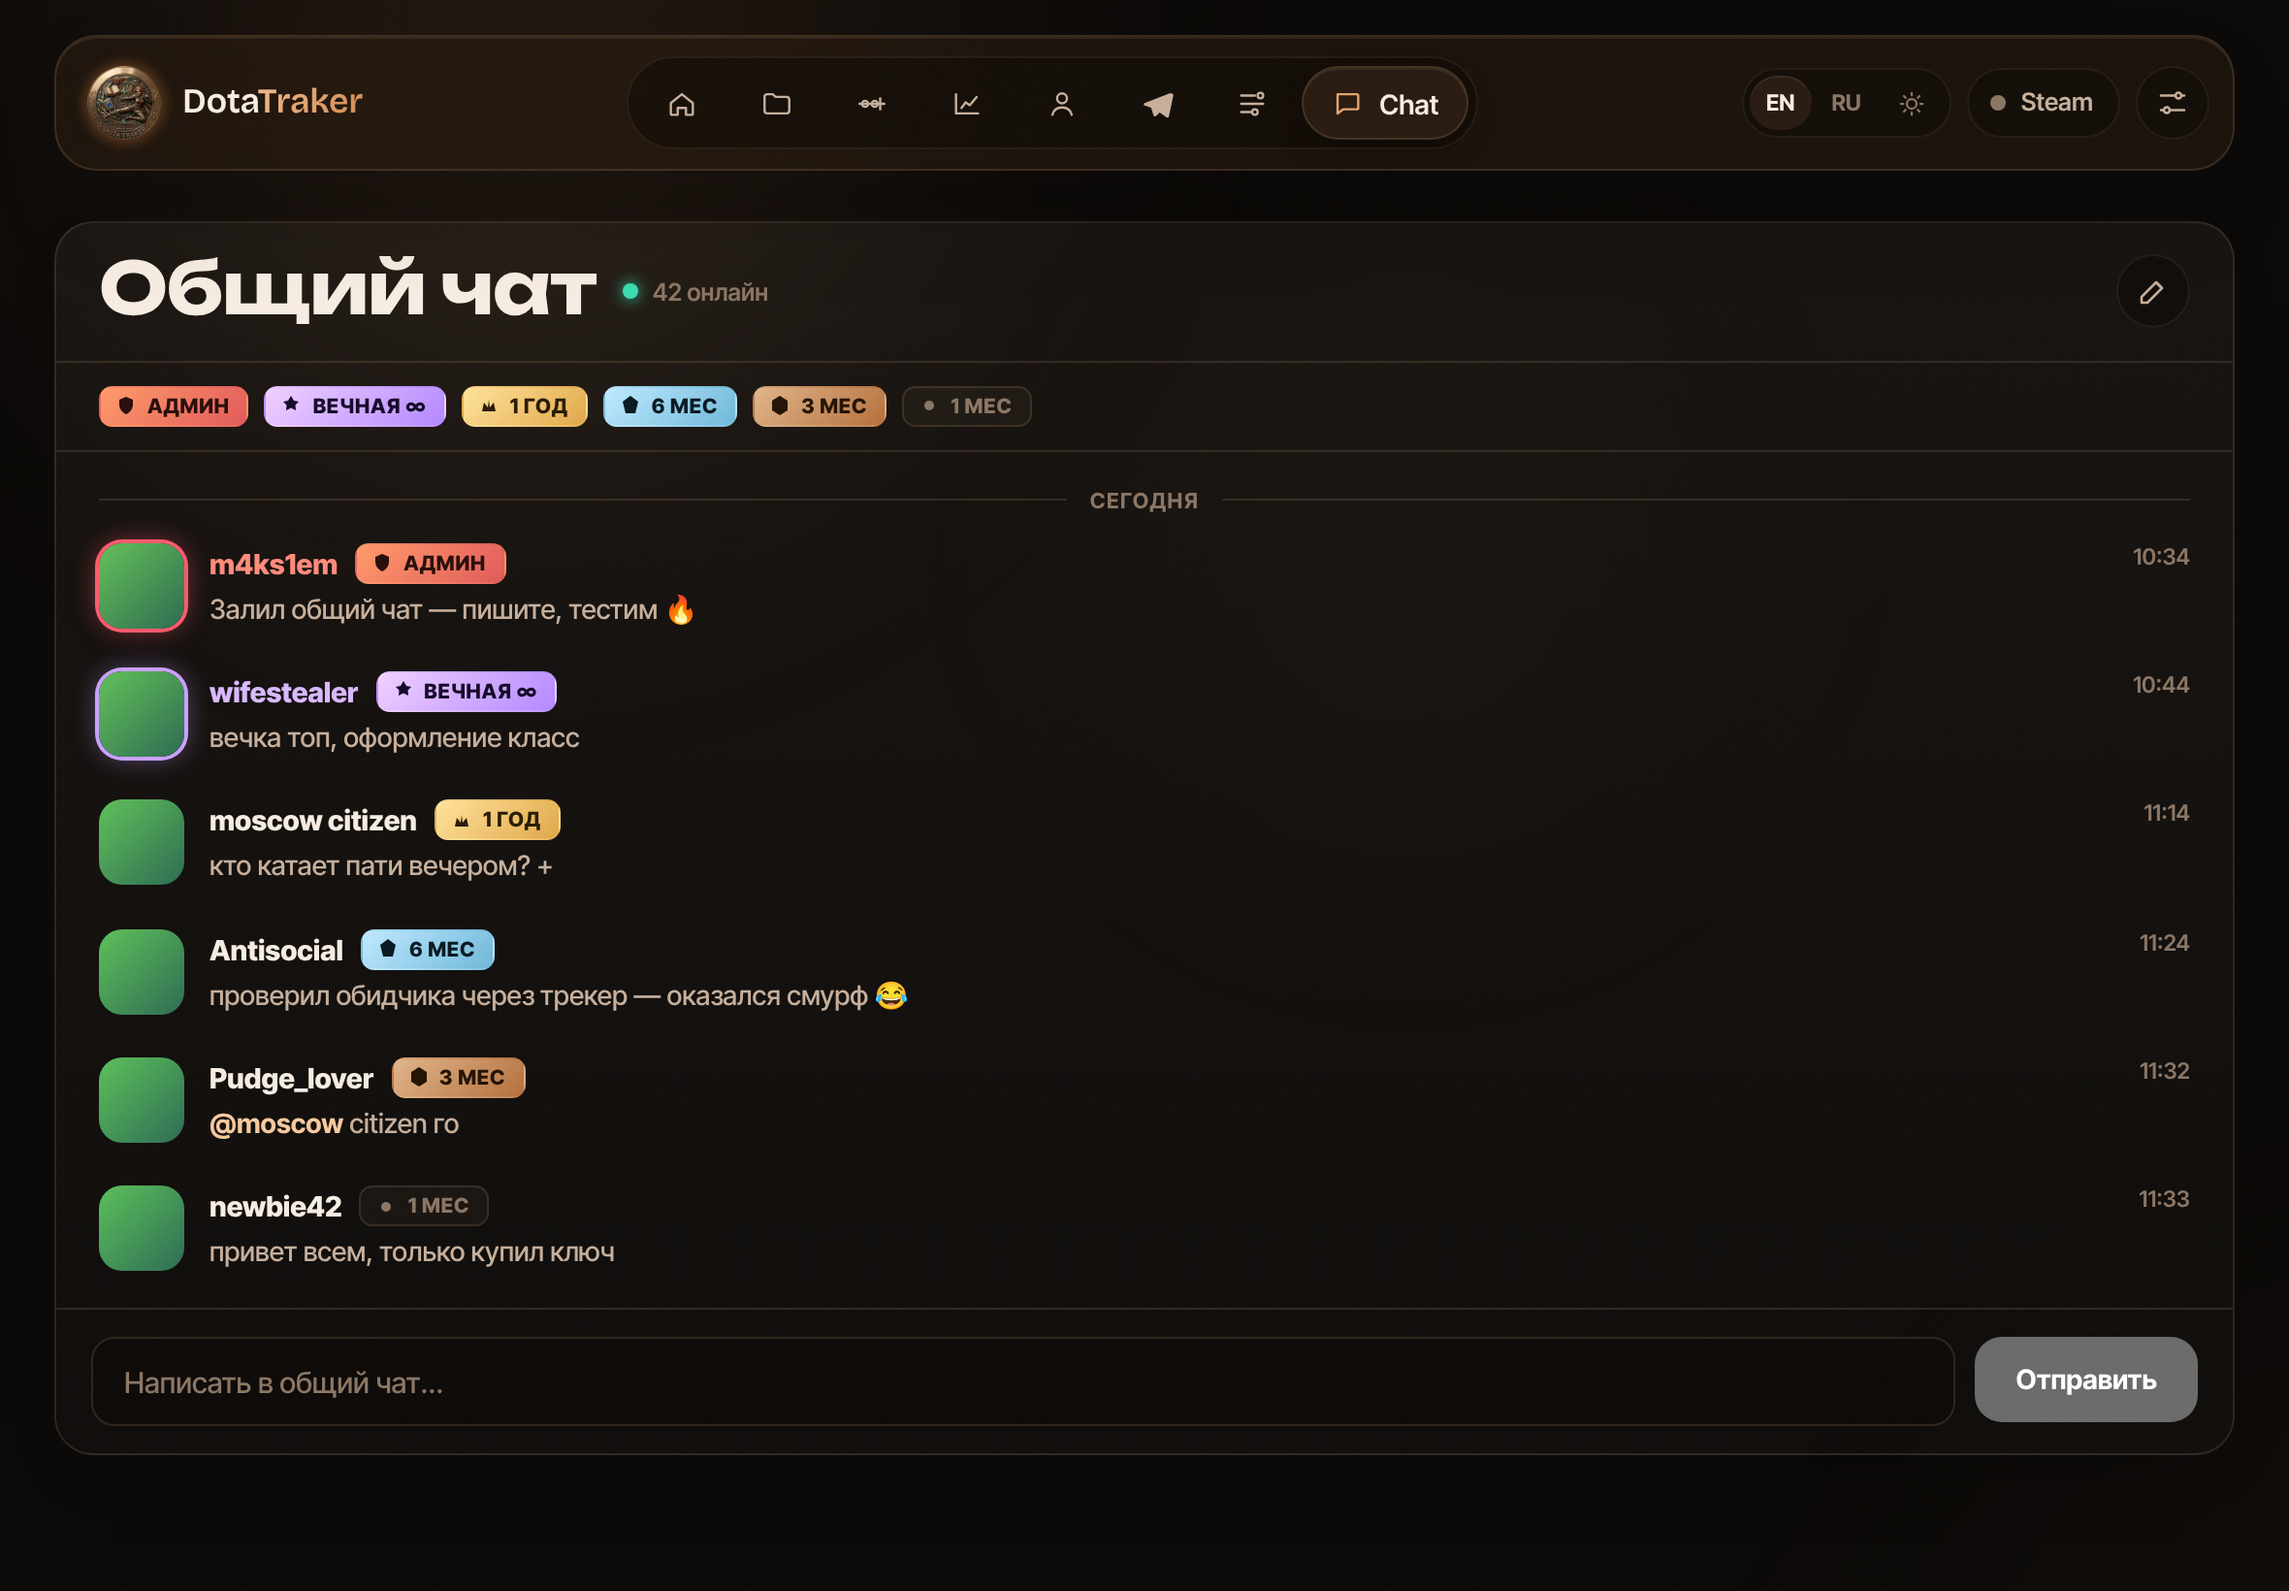
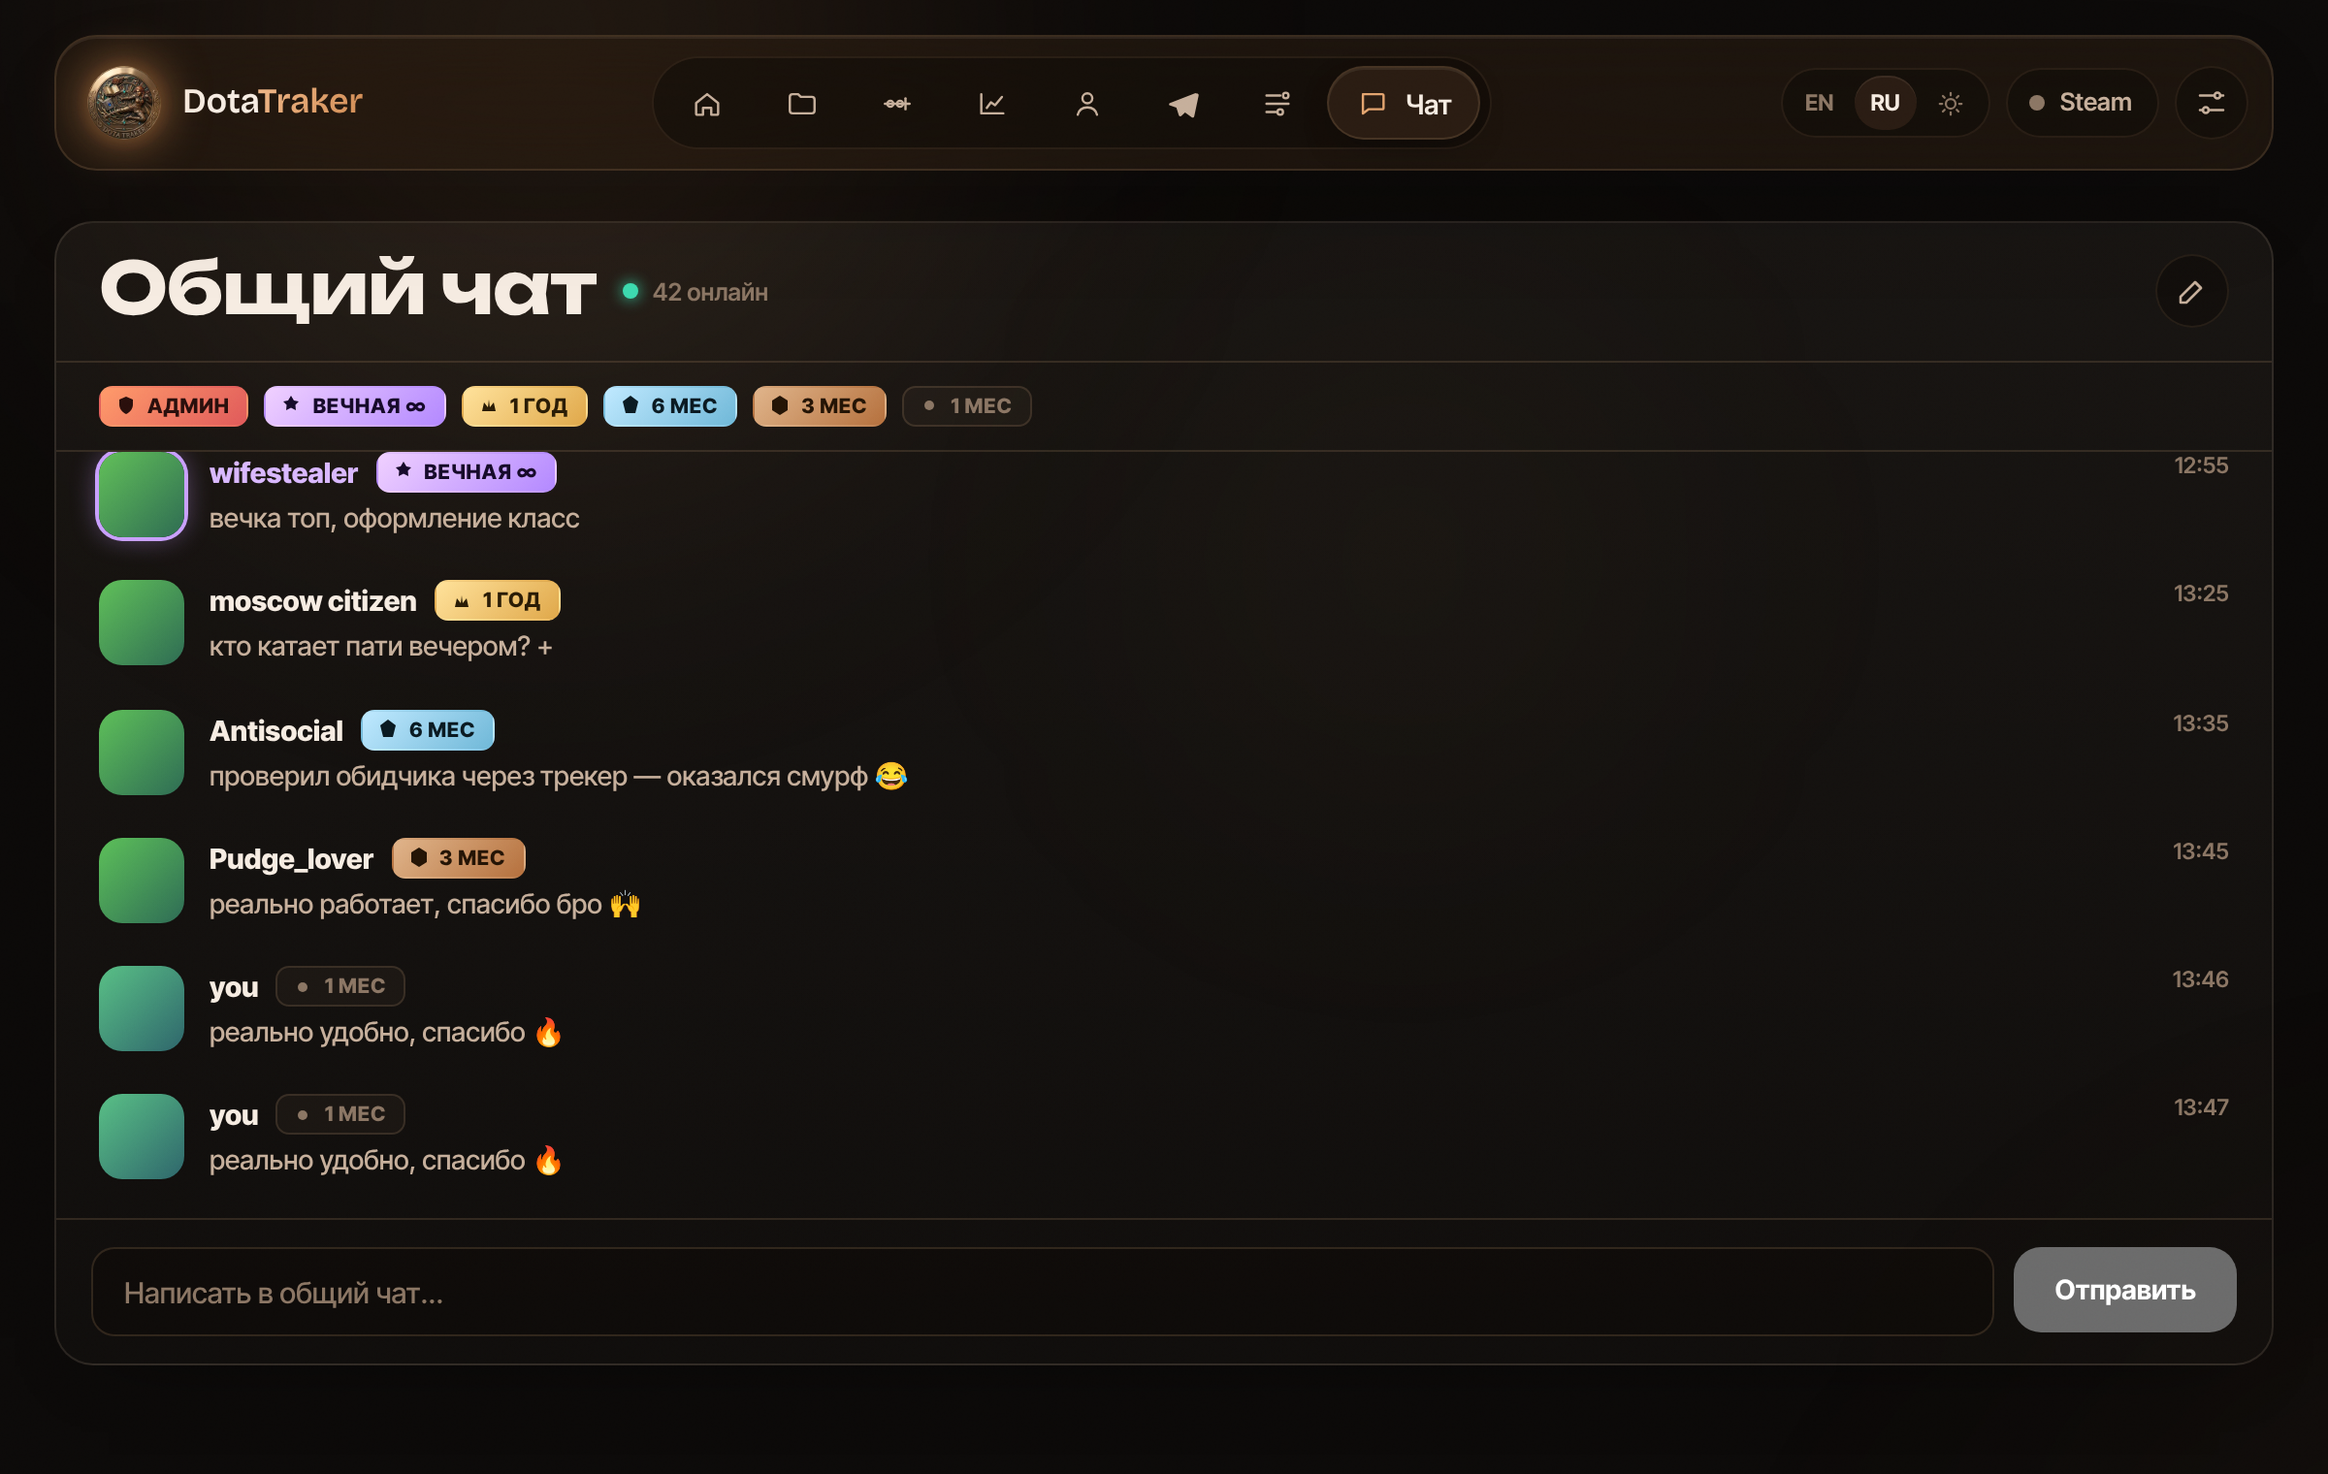
README: fresh RU demo GIF, new social preview, refreshed obsidian screenshots (home/login/chat/timeline)

diff --git a/README.md b/README.md
@@ -39,6 +39,12 @@
 
 ---
 
+## 🎬 Демо
+
+<p align="center">
+  <img src="docs/demo.gif" alt="Демо DotaTraker — от поиска до общего чата" width="92%">
+</p>
+
 ## ✨ Что нового в 2.13
 
 - 💬 **Общий чат** — живое общение со всеми игроками DotaTraker, история сообщений, @упоминания, разделители по дням, онлайн-счётчик.
@@ -118,8 +124,8 @@
 | Вход | Главная |
 |---|---|
 | <img src="docs/login.png" alt="Вход"> | <img src="docs/home.png" alt="Главная"> |
-| **Таймлайн матча** | **Статистика** |
-| <img src="docs/matches.png" alt="Матч"> | <img src="docs/stats.png" alt="Статистика"> |
+| **Общий чат** | **Таймлайн матча** |
+| <img src="docs/chat.png" alt="Общий чат"> | <img src="docs/matches.png" alt="Таймлайн матча"> |
 
 ## 🔄 Обновления
 

diff --git a/README.en.md b/README.en.md
@@ -37,6 +37,12 @@
 
 ---
 
+## 🎬 Demo
+
+<p align="center">
+  <img src="docs/demo.gif" alt="DotaTraker demo — from lookup to the global chat" width="92%">
+</p>
+
 ## ✨ New in 2.13
 
 - 💬 **Global chat** — talk with every DotaTraker player, full history, @mentions, day dividers, live online counter.
